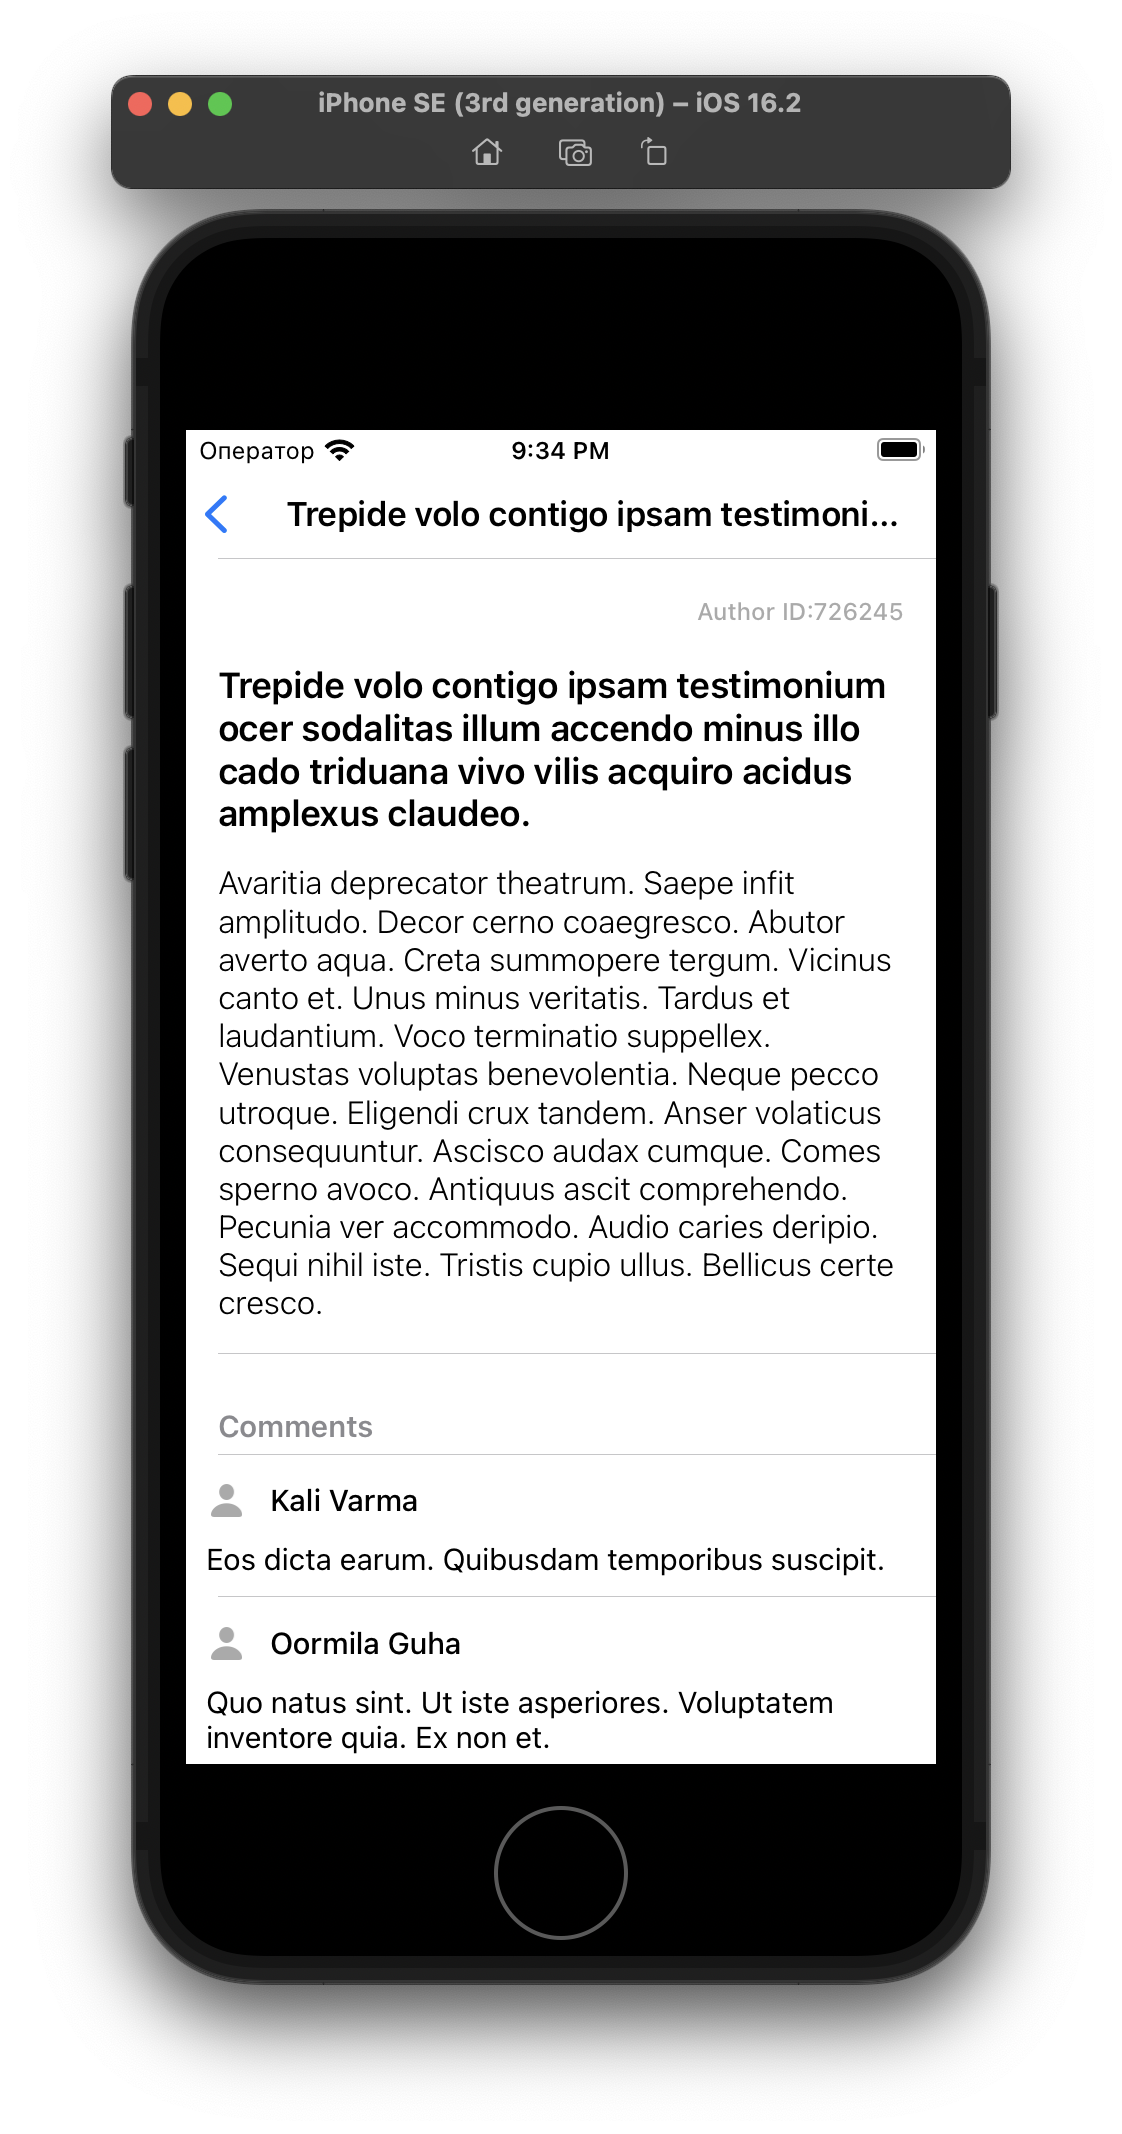
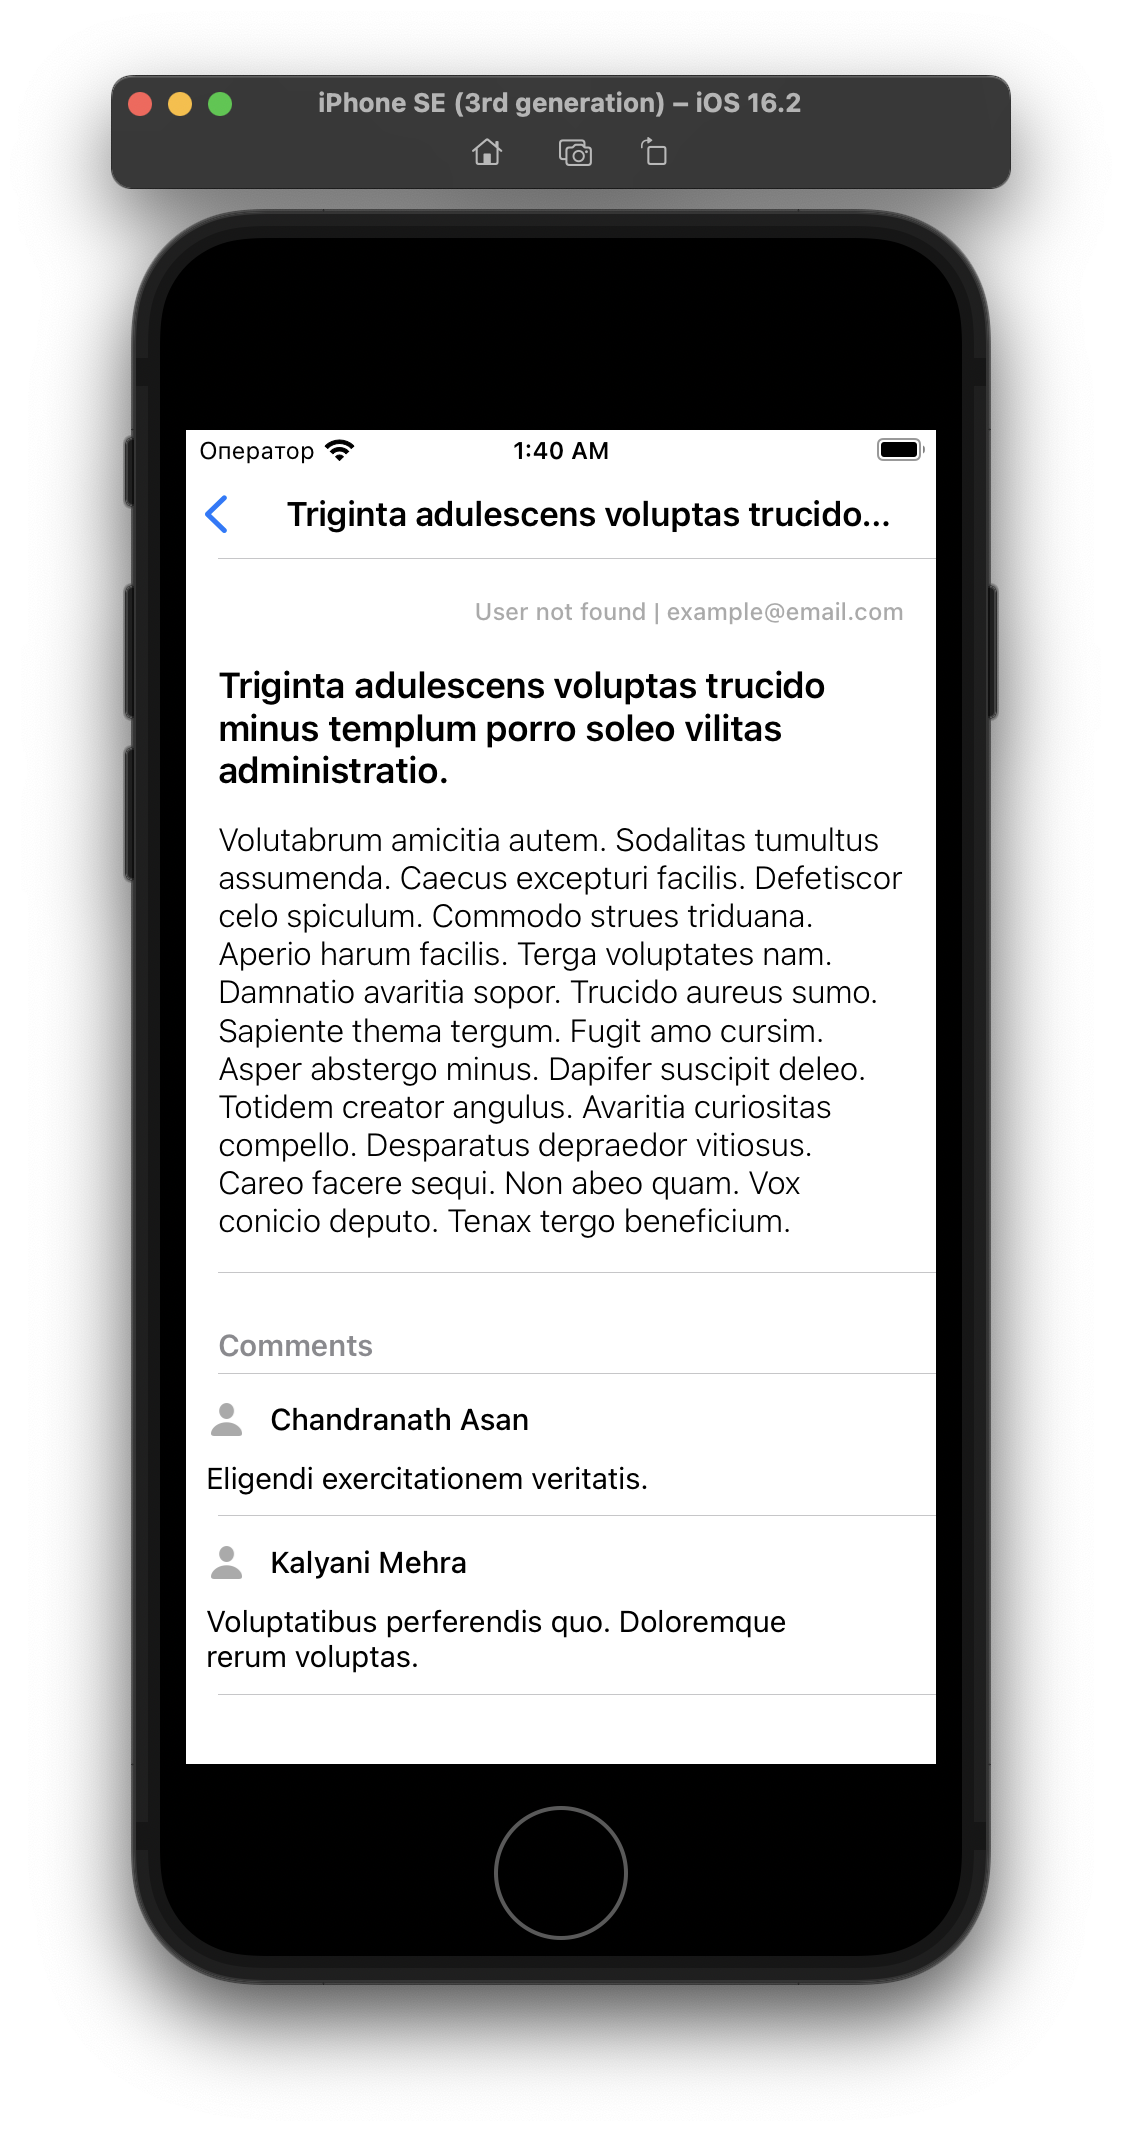
project
updated readme

diff --git a/README.md b/README.md
@@ -47,6 +47,19 @@ API credentials (token and base URL) defined in `Config` file inside `Configurat
 - Open `Breadfast_posts.xcodeproj` in Xcode
 - Select desired simulator and press `Run` button
 
+## Known issues
+
+Endpoint `GET /public/v2/users/specific_user_profile_id`
+    - this endpoint don't return following fields:
+        - avatar
+    - a lot of users with id's from `https://gorest.co.in/public/v2/posts` simply not exist. So `GET /public/v2/users/specific_user_profile_id` will return 404 code. In that case app will display *placeholder* user profile with `name: "User not found" and email: "example@email.com"`
+    
+Details in screenshots below:
+![Not found](user_not_found.png)
+
+![Profile attributes](current_profile_attributes.png)
+
+
 ## Screenshots
 ![List of all posts](posts_list.png)
 

diff --git a/local_packages/DomainLayer/README.md b/local_packages/DomainLayer/README.md
@@ -11,7 +11,8 @@ To see documetations for source code — build project `.docc` document
 ## Structure
 - Repositories
     - `PostsRepository` — provides an access to list of all available posts
-    - `` — provides an access to list of all comments for post
+    - `CommentsRepository` — provides an access to list of all comments for post
+    - `UserRepository` — provides an access to user profile info by given ID
 - Use cases
     - `GetAllPostsUseCase` — implements business requirement for load all available posts
     - `GetAllPostCommentsUseCase` — implements business requirement for load available comments for post
